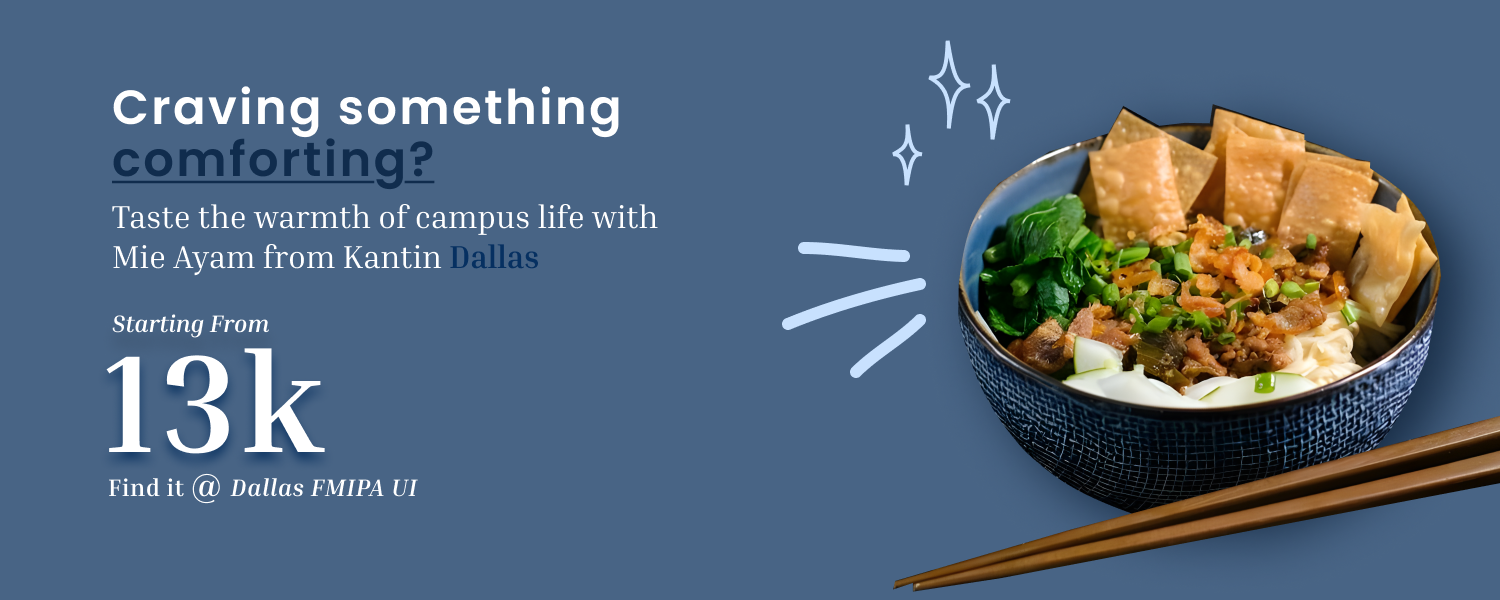
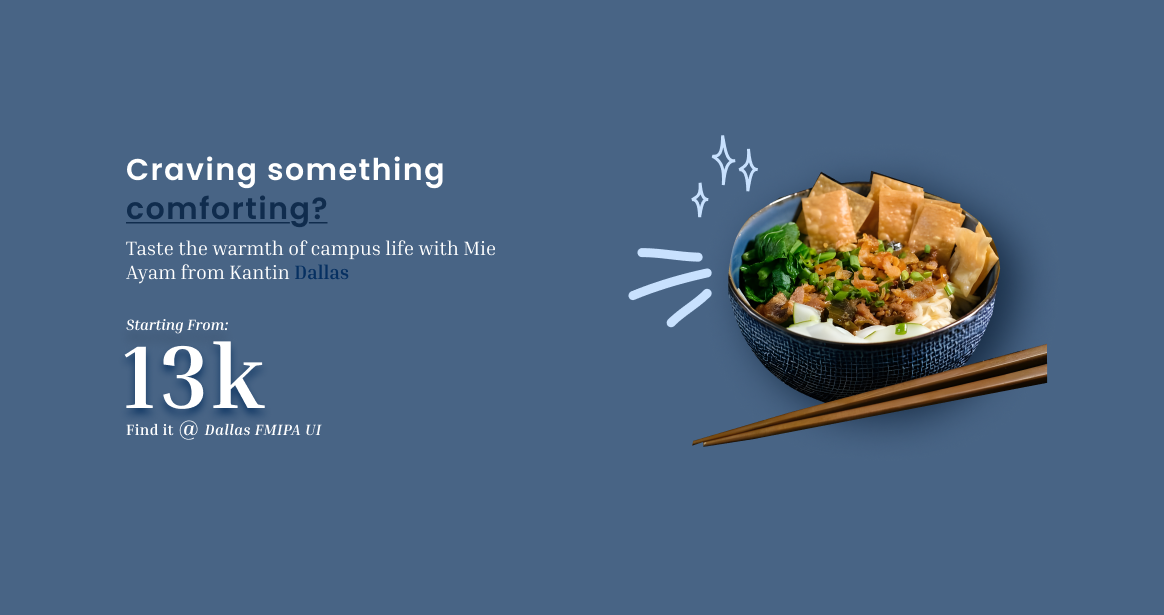
newest progress on menu/homepage, hits under15k section here, unfortunately dyanmic resizing not applicable yet, will fix

Changed region(s): [[0.5258, 0.06, 1.0, 0.99], [0.0619, 0.15, 0.433, 0.45], [0.0619, 0.51, 0.2784, 0.84]]

diff --git a/lib/screens/menu.dart b/lib/screens/menu.dart
@@ -55,7 +55,7 @@ class MyHomePage extends StatelessWidget {
                 Image.asset(
                   'assets/pictures/heading1_mieayam.png',
                   width: double.infinity,
-                  height: screenHeight * 0.25,
+                  height: screenHeight * 0.35,
                   fit: BoxFit.cover,
                 ),
               ],
@@ -138,23 +138,28 @@ class MyHomePage extends StatelessWidget {
                     color: Colors.orange,
                   ),
                   const SizedBox(height: 20),
+
+                  // Scrollable Categories
                   SizedBox(
-                    height: screenHeight * 0.18,
+                    height: screenHeight * 0.18, // Adjusted height for circular categories
                     child: ListView.builder(
                       scrollDirection: Axis.horizontal,
-                      padding: const EdgeInsets.symmetric(horizontal: 30.0),
                       itemCount: 4,
+                      padding: const EdgeInsets.symmetric(horizontal: 10.0), // Reduced padding
                       itemBuilder: (context, index) {
                         final categories = [
                           {'image': 'assets/pictures/indonesian_circle.png', 'label': 'Indonesian'},
                           {'image': 'assets/pictures/japanese_circle.png', 'label': 'Japanese'},
                           {'image': 'assets/pictures/italian_circle.png', 'label': 'Italian'},
-                          {'image': 'assets/pictures/chinese_circle.png', 'label': 'Chinese'}
+                          {'image': 'assets/pictures/chinese_circle.png', 'label': 'Chinese'},
                         ];
-                        return CategoryItem(
-                          imagePath: categories[index]['image']!,
-                          label: categories[index]['label']!,
-                          screenWidth: screenWidth,
+                        return Padding(
+                          padding: const EdgeInsets.only(right: 16.0), // Spacing between items
+                          child: CategoryItem(
+                            imagePath: categories[index]['image']!,
+                            label: categories[index]['label']!,
+                            screenWidth: screenWidth,
+                          ),
                         );
                       },
                     ),
@@ -162,6 +167,7 @@ class MyHomePage extends StatelessWidget {
                 ],
               ),
             ),
+
             const SizedBox(height: 20),
 
             // "Don't know what to get?" Section
@@ -200,14 +206,14 @@ class MyHomePage extends StatelessWidget {
                 ],
               ),
             ),
-            const SizedBox(height: 30),
+            const SizedBox(height: 35),
 
-            // Recommendations Cards
+            // reccomendation
             SizedBox(
-              height: 230,
+              height: screenHeight * 0.25, // Adjust height dynamically
               child: ListView(
                 scrollDirection: Axis.horizontal,
-                padding: const EdgeInsets.symmetric(horizontal: 30.0),
+                padding: EdgeInsets.symmetric(horizontal: screenWidth * 0.05),
                 children: [
                   RecommendationCard(
                     imagePath: 'assets/pictures/tomoro.png',
@@ -216,9 +222,9 @@ class MyHomePage extends StatelessWidget {
                     subTitle: "TOMORO Coffee",
                     faculty: "FISIP UI",
                     price: "23k",
-                    cardWidth: cardWidth,
+                    cardWidth: screenWidth * 0.6, // Width adjusted dynamically
                   ),
-                  const SizedBox(width: 16),
+                  SizedBox(width: screenWidth * 0.04),
                   RecommendationCard(
                     imagePath: 'assets/pictures/bebek_madura.png',
                     recommendationText: "ari's recommendation",
@@ -226,51 +232,118 @@ class MyHomePage extends StatelessWidget {
                     subTitle: "Kantin FIB",
                     faculty: "FIB UI",
                     price: "20k",
-                    cardWidth: cardWidth,
+                    cardWidth: screenWidth * 0.6,
                   ),
                 ],
               ),
             ),
-            const SizedBox(height: 20),
 
-            // Hits under 15K section
-            Padding(
-              padding: const EdgeInsets.symmetric(horizontal: 25.0),
+            const SizedBox(height: 10),
+
+            // Hits under 15K Section
+            Container(
+              width: double.infinity,
+              height: 380, // Height of container
+              decoration: BoxDecoration(
+                gradient: LinearGradient(
+                  colors: [
+                    Colors.white, // Start with white
+                    Colors.red[100] ?? Colors.red, // Fades into light red
+                  ],
+                  begin: Alignment.topCenter,
+                  end: Alignment.bottomCenter,
+                ),
+              ),
               child: Column(
                 crossAxisAlignment: CrossAxisAlignment.start,
                 children: [
-                  // "Hits under 15K!" Section Title
-                  Row(
-                    children: [
-                      Text(
-                        "Hits under 15K!",
-                        style: TextStyle(
-                          fontFamily: 'Poppins',
-                          fontWeight: FontWeight.w600,
-                          fontSize: MediaQuery.of(context).size.width * 0.06, // Same size as "Don't know what to get?"
+                  // Title and Stars
+                  Padding(
+                    padding: const EdgeInsets.symmetric(horizontal: 25.0, vertical: 20.0),
+                    child: Column(
+                      crossAxisAlignment: CrossAxisAlignment.start,
+                      children: [
+                        Row(
+                          crossAxisAlignment: CrossAxisAlignment.end,
+                          children: [
+                            Text(
+                              "Hits under 15K!",
+                              style: TextStyle(
+                                fontFamily: 'Poppins',
+                                fontWeight: FontWeight.w600,
+                                fontSize: MediaQuery.of(context).size.width * 0.06,
+                              ),
+                            ),
+                            const SizedBox(width: 12),
+                            Align(
+                              alignment: Alignment.bottomCenter,
+                              child: Image.asset(
+                                'assets/pictures/stars.png', // Path to the stars asset
+                                width: 60,
+                                height: 60,
+                              ),
+                            ),
+                          ],
                         ),
-                      ),
-                      const SizedBox(width: 8), // Spacing between text and stars
-                      Image.asset(
-                        'assets/pictures/stars.png', // Path to the stars asset
-                        width: 24, // Adjust as necessary
-                        height: 24,
-                      ),
-                    ],
-                  ),
-                  const SizedBox(height: 4),
-
-                  // Underline
-                  Container(
-                    height: 3,
-                    width: MediaQuery.of(context).size.width * 0.7, 
-                    color: Colors.orange, // Same color as the other line
+                        const SizedBox(height: 15),
+                        Container(
+                          height: 3,
+                          width: MediaQuery.of(context).size.width * 0.7,
+                          color: Colors.orange,
+                        ),
+                      ],
+                    ),
                   ),
                   const SizedBox(height: 20),
+
+                  // Scrollable Cards
+                  Expanded( // Use Expanded to allow ListView to take available space
+                    child: ListView(
+                      scrollDirection: Axis.horizontal,
+                      padding: const EdgeInsets.symmetric(horizontal: 20.0),
+                      children: [
+                        // First Card
+                        Padding(
+                          padding: const EdgeInsets.only(right: 16.0, bottom: 15.0),
+                          child: _buildHitsUnder15kCard(
+                            imagePath: 'assets/pictures/nasi_uduk.png',
+                            priceCirclePath: 'assets/pictures/price_circle13.png',
+                            department: "FISIP UI",
+                            foodTitle: "Nasi Uduk",
+                            stall: "Siomay Ikan Tenggiri",
+                            cardWidth: MediaQuery.of(context).size.width * 0.4,
+                          ),
+                        ),
+                        // Second Card
+                        Padding(
+                          padding: const EdgeInsets.only(right: 16.0, bottom: 15.0),
+                          child: _buildHitsUnder15kCard(
+                            imagePath: 'assets/pictures/nasi_uduk.png',
+                            priceCirclePath: 'assets/pictures/price_circle14.png',
+                            department: "FISIP UI",
+                            foodTitle: "Nasi Uduk",
+                            stall: "Siomay Ikan Tenggiri",
+                            cardWidth: MediaQuery.of(context).size.width * 0.4,
+                          ),
+                        ),
+                        // third card
+                        Padding(
+                          padding: const EdgeInsets.only(right: 16.0, bottom: 15.0),
+                          child: _buildHitsUnder15kCard(
+                            imagePath: 'assets/pictures/nasi_uduk.png',
+                            priceCirclePath: 'assets/pictures/price_circle14.png',
+                            department: "FISIP UI",
+                            foodTitle: "Nasi Uduk",
+                            stall: "Siomay Ikan Tenggiri",
+                            cardWidth: MediaQuery.of(context).size.width * 0.4,
+                          ),
+                        ),
+                      ],
+                    ),
+                  ),
                 ],
               ),
             ),
-            const SizedBox(height: 20),
 
             // Content Section (GridView)
             Padding(
@@ -294,7 +367,6 @@ class MyHomePage extends StatelessWidget {
     );
   }
 }
-
 
 class ItemHomepage {
   final String name;
@@ -484,7 +556,7 @@ class RecommendationCard extends StatelessWidget {
                     style: const TextStyle(
                       fontFamily: 'Poppins',
                       fontWeight: FontWeight.w500,
-                      fontSize: 14,
+                      fontSize: 10,
                       color: Colors.pink,
                     ),
                   ),
@@ -494,7 +566,7 @@ class RecommendationCard extends StatelessWidget {
                     style: const TextStyle(
                       fontFamily: 'Poppins',
                       fontWeight: FontWeight.bold,
-                      fontSize: 24,
+                      fontSize: 18,
                       color: Colors.black,
                     ),
                   ),
@@ -504,7 +576,7 @@ class RecommendationCard extends StatelessWidget {
                     style: const TextStyle(
                       fontFamily: 'InriaSerif-Regular',
                       fontWeight: FontWeight.w500,
-                      fontSize: 14,
+                      fontSize: 12,
                       color: Colors.black,
                     ),
                   ),
@@ -514,7 +586,7 @@ class RecommendationCard extends StatelessWidget {
                     style: const TextStyle(
                       fontFamily: 'InriaSerif-BoldItalic',
                       fontWeight: FontWeight.w600,
-                      fontSize: 15,
+                      fontSize: 13,
                       color: Colors.orange,
                     ),
                   ),
@@ -524,7 +596,7 @@ class RecommendationCard extends StatelessWidget {
                     style: const TextStyle(
                       fontFamily: 'InriaSerif-Bold',
                       fontWeight: FontWeight.w600,
-                      fontSize: 20,
+                      fontSize: 18,
                       color: Colors.black,
                     ),
                   ),
@@ -536,6 +608,96 @@ class RecommendationCard extends StatelessWidget {
       ),
     );
   }
+}
+
+Widget _buildHitsUnder15kCard({
+  required String imagePath,
+  required String priceCirclePath,
+  required String department,
+  required String foodTitle,
+  required String stall,
+  required double cardWidth,
+}) {
+  return Container(
+    width: cardWidth,
+    decoration: BoxDecoration(
+      color: Colors.white,
+      borderRadius: BorderRadius.circular(20), // Increased border radius
+      boxShadow: [
+        BoxShadow(
+          color: Colors.black.withOpacity(0.1),
+          blurRadius: 10,
+          offset: const Offset(0, 5),
+        ),
+      ],
+    ),
+    child: Column(
+      children: [
+        // Food Image Section
+        Stack(
+          alignment: Alignment.center, // Center-align the price circle
+          children: [
+            ClipRRect(
+              borderRadius: const BorderRadius.only(
+                topLeft: Radius.circular(20),
+                topRight: Radius.circular(20),
+              ),
+              child: Image.asset(
+                imagePath,
+                width: double.infinity,
+                height: 120,
+                fit: BoxFit.cover,
+              ),
+            ),
+            Image.asset(
+              priceCirclePath,
+              width: 90,
+              height: 90,
+            ),
+          ],
+        ),
+        const SizedBox(height: 10), // Space between image and text
+        // Text Content Section
+        Padding(
+          padding: const EdgeInsets.symmetric(horizontal: 8.0),
+          child: Column(
+            crossAxisAlignment: CrossAxisAlignment.center,
+            children: [
+              Text(
+                department,
+                style: const TextStyle(
+                  fontFamily: 'InriaSerif',
+                  fontStyle: FontStyle.italic,
+                  fontSize: 14,
+                  color: Colors.orange,
+                ),
+              ),
+              const SizedBox(height: 1),
+              Text(
+                foodTitle,
+                style: const TextStyle(
+                  fontFamily: 'Poppins',
+                  fontWeight: FontWeight.bold,
+                  fontSize: 20,
+                  color: Colors.black,
+                ),
+              ),
+              const SizedBox(height: 1),
+              Text(
+                stall,
+                style: const TextStyle(
+                  fontFamily: 'InriaSerif',
+                  fontSize: 14,
+                  color: Colors.black,
+                ),
+              ),
+            ],
+          ),
+        ),
+        const SizedBox(height: 10), // Padding at the bottom
+      ],
+    ),
+  );
 }
 
 
